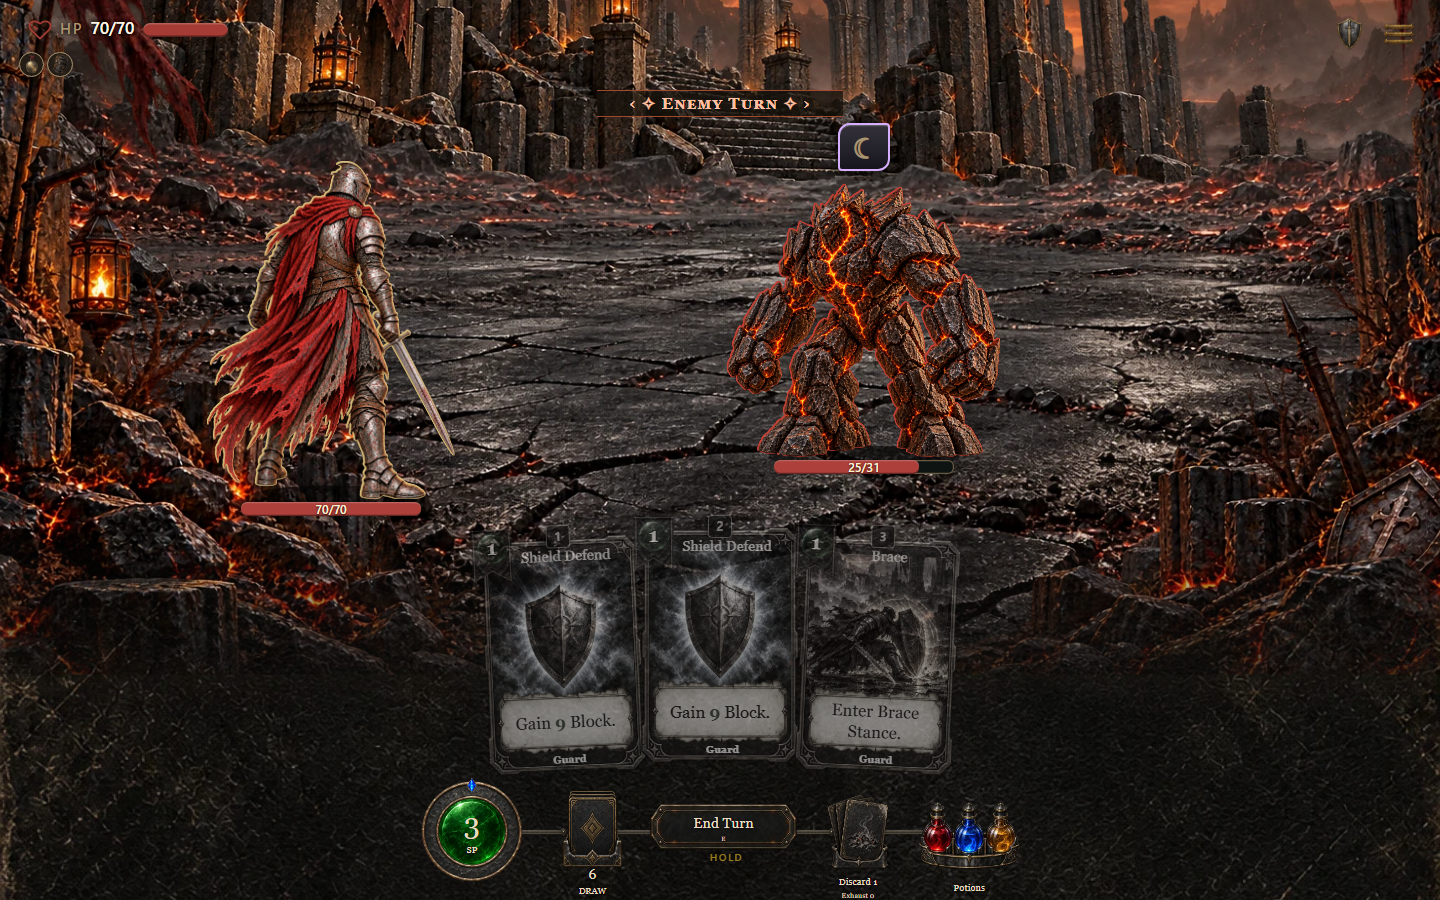
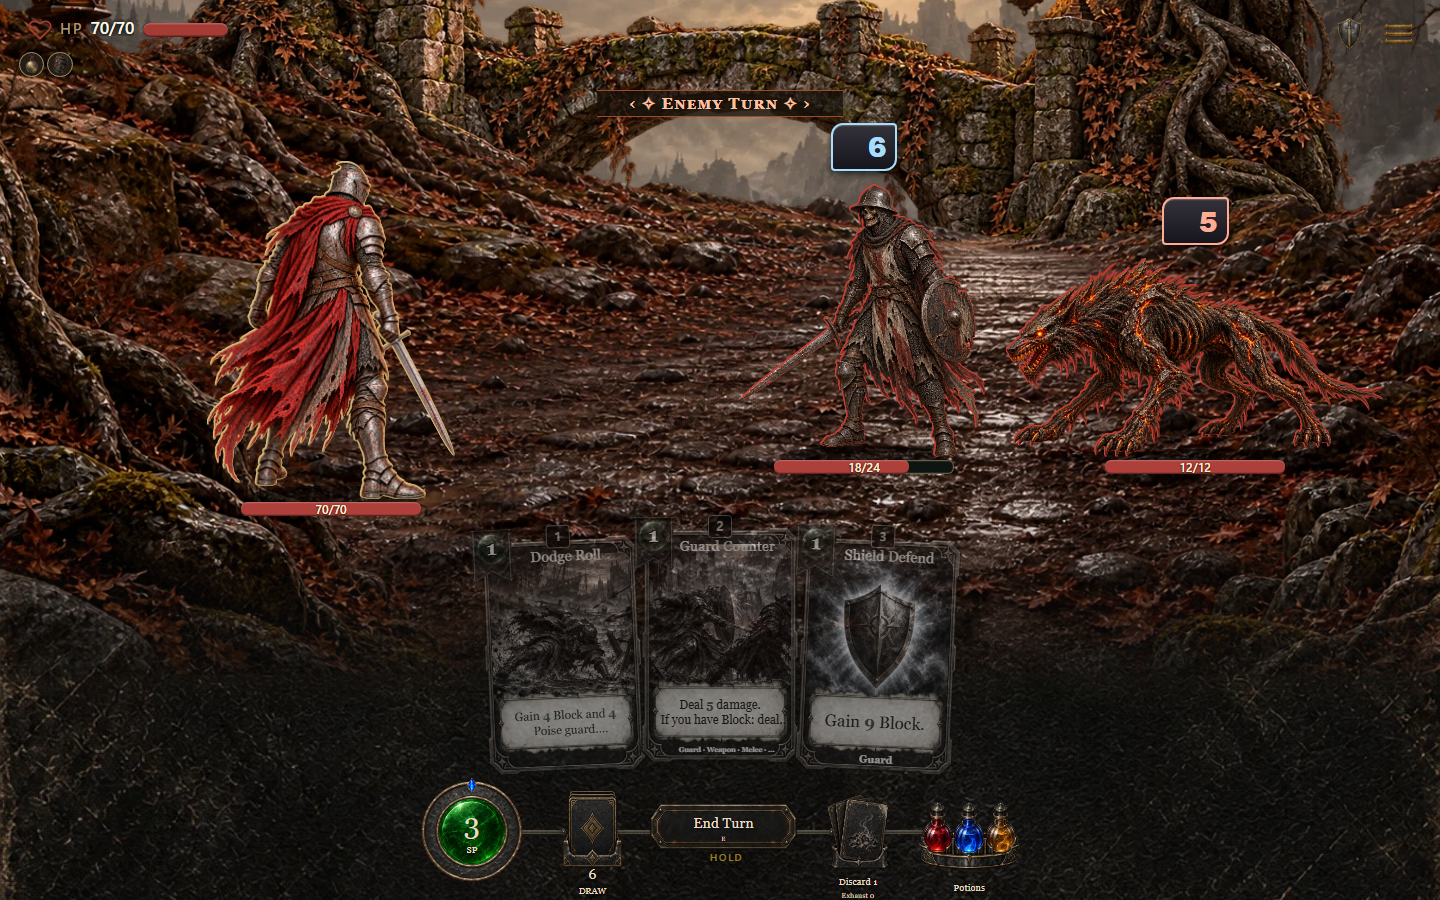
Select phone art at mount and record integration validation

diff --git a/src/ui/alternativeArt.js b/src/ui/alternativeArt.js
@@ -6,6 +6,7 @@ import { armourById } from '../content/equipment.js';
 const alternativeArtMap = {};
 /* ALTERNATIVE_ART_END */
 export const alternativeArtUrl = path => alternativeArtMap[path] || assetUrl(path);
+const phoneArt = () => typeof document !== 'undefined' && document.documentElement.dataset.layout === 'narrow';
 
 // Dedicated canonical appearances win over legacy painted-rig aliases. Shared
 // armor keeps the package's explicit visual-class mapping until dedicated art lands.
@@ -66,15 +67,16 @@ export function alternativeCompanionIcon(id) {
 export function alternativeBackdropHtml(sceneId = 'hollow-weald-1') {
   const scene = alternativeArtCatalog.scenes[sceneId];
   if (!scene) return null;
-  const device = scene.devices.desktop;
+  const mobile = phoneArt();
+  const device = scene.devices[mobile ? 'phone' : 'desktop'];
   return `<div class="backdrop alternative-backdrop" data-region="${scene.region}" data-scene="${sceneId}" aria-hidden="true">
     <svg class="alternative-scene" viewBox="0 0 ${device.width} ${device.height}" focusable="false">
-      ${device.layers.map(layer => `<g class="alternative-scene-layer" data-depth="${layer.depth}"><image data-layer="${layer.id}" href="${alternativeArtUrl(alternativeArtCatalog.sceneLayers[layer.id].path)}" x="${layer.x}" y="${layer.y}" width="${layer.width}" height="${layer.height}"/></g>`).join('')}
+      ${device.layers.map(layer => `<g class="alternative-scene-layer" data-depth="${layer.depth}"><image data-layer="${layer.id}" href="${alternativeArtUrl(alternativeArtCatalog.sceneLayers[layer.id][mobile ? 'mobilePath' : 'path'])}" x="${layer.x}" y="${layer.y}" width="${layer.width}" height="${layer.height}"/></g>`).join('')}
     </svg></div>${alternativeCardFadeHtml()}`;
 }
 
 export function alternativeCardFadeHtml() {
-  return `<div class="alternative-card-fade" aria-hidden="true" style="background-image:url('${alternativeArtUrl(alternativeArtCatalog.layers['card-section-texture'])}')"></div>`;
+  return `<div class="alternative-card-fade" aria-hidden="true" style="background-image:url('${alternativeArtUrl((phoneArt() ? alternativeArtCatalog.mobileLayers : alternativeArtCatalog.layers)['card-section-texture'])}')"></div>`;
 }
 
 // Fit the art canvas to the actual battlefield, keeping its measured ground
@@ -101,7 +103,8 @@ export function fitAlternativeBackdrop(combat, { width, height, fieldTop, ground
     group.dataset.depth = String(layer.depth);
     image.dataset.layer = layer.id;
     for (const prop of ['x', 'y', 'width', 'height']) image.setAttribute(prop, layer[prop]);
-    image.setAttribute('href', alternativeArtUrl(narrow ? art.mobilePath : art.path));
+    const href = alternativeArtUrl(narrow ? art.mobilePath : art.path);
+    if (image.getAttribute('href') !== href) image.setAttribute('href', href);
     group.style.visibility = ['far', 'landmark'].includes(art.kind) && document.documentElement.dataset.wireframeSceneSkyline === 'off' ? 'hidden' : '';
   });
   const fade = combat.querySelector('.alternative-card-fade');

diff --git a/src/content/changelog.generated.js b/src/content/changelog.generated.js
@@ -3,6 +3,16 @@
 
 export const GENERATED_CHANGELOG = Object.freeze([
   {
+    "id": "pr-1684",
+    "date": "2026-10-06",
+    "group": "2026-10-06",
+    "summary": "Alternative battles use the completed art collection",
+    "detail": "All 32 named combat settings have four independent layers with desktop and phone compositions. The collection has 59 canonical idle appearances, including the approved rear companions and speakers; dedicated armor appearances resolve before older aliases. Phone exports keep the artwork smaller while the current HUD, cards and footer stay in place.",
+    "build": "0.7.1.1046",
+    "pullRequest": 1684,
+    "url": "https://github.com/cehinds/AshenSpire/pull/1684"
+  },
+  {
     "id": "pr-1683",
     "date": "2026-10-06",
     "group": "2026-10-06",

diff --git a/docs/qa/combat-art-runtime-2026-10-06/README.md b/docs/qa/combat-art-runtime-2026-10-06/README.md
@@ -31,12 +31,14 @@ Integration base: `c448cb31c` on `alternative/dev`.
 
 ## Validation
 
-- 11 focused Node tests passed: all actor IDs and source identities, every
+- 12 focused Node tests passed: all actor IDs and source identities, every
   armor mapping, both device paths, all scene layer references and dimensions,
   saved dungeon selection, existing environment and formation contracts.
 - 17 asset-pack/mobile tests passed, including stale-hash rejection and the
   common-pack loader used by the alternative art.
-- Local light pack and portable builds succeeded. Built HTML remains ignored.
+- Local light pack and portable builds succeeded: `0.7.1.1041`, identity
+  `3af276545a`. Build identity (9 checks) and shipped-file verification
+  (12 checks) passed. Built HTML remains ignored.
 - Chromium/Edge at 1440x900 and 390x844 loaded all 64 scene/device combinations
   in production combat, checked selected layer IDs and phone sprite paths,
   decoded every selected layer and actor, and found no horizontal page overflow.
@@ -44,13 +46,13 @@ Integration base: `c448cb31c` on `alternative/dev`.
   and representative full-size screenshots were visually inspected.
 - Fresh Quick start, mastery selection, map entry, tutorial Skip, real card
   selection/targeting, hold End Turn, hand retention and turn 2 passed at both
-  sizes, from the source preview and from the offline portable file.
+  sizes, from the source preview, served pack, and offline portable file.
 - The first input harness run exposed a tutorial overlay and an early End Turn
   attempt during card playback. The harness now uses the visible Skip control
   and waits for enabled controls/retention. Both complete playthroughs were
   rerun successfully. These were harness changes, not gameplay changes.
 - No page JavaScript errors or required-art HTTP errors. The source preview
-  still probes optional recorded SFX and `/api/lan/info` and receives 404s;
+  and served pack still probe optional recorded SFX and `/api/lan/info` and receive 404s;
   it uses its existing synthesized audio fallback. These are listed separately
   in `validation.json`. The portable playthrough has no HTTP errors.
 
@@ -70,4 +72,5 @@ separate from these local checks. Nothing was merged, promoted or published.
 Reproduce with `python tools/alternative-art-build.py`, the focused tests named
 in DEVELOPER.md, `node tools/launch.mjs --build-only`, and
 `node tools/alternative-art-qa.mjs`. Point `COMBAT_ART_URL` at the portable file
-and add `--play-only` to test the built game. Keep local outputs/temp on D:.
+and add `--play-only` to test the portable game; use `--play-only --pack`
+for the served pack. Keep local outputs/temp on D:.

diff --git a/CHANGELOG.md b/CHANGELOG.md
@@ -34,6 +34,8 @@ A receipt here names the pull request that landed a change; inventing one to fit
 
 ## 2026-10-06
 
+- **Alternative battles use the completed art collection** ([#1684](https://github.com/cehinds/AshenSpire/pull/1684), `0.7.1.1046`). All 32 named combat settings have four independent layers with desktop and phone compositions. The collection has 59 canonical idle appearances, including the approved rear companions and speakers; dedicated armor appearances resolve before older aliases. Phone exports keep the artwork smaller while the current HUD, cards and footer stay in place.
+
 - **Alternative characters keep pace** ([#1683](https://github.com/cehinds/AshenSpire/pull/1683), `0.7.1.1045`). The alternative preview gains the ready-to-play character defaults, compact class cards, stat and relic detail dialogs, and continuous Smith upgrades. Its own battlefield and artwork stay intact, with both update histories preserved.
 
 - **Inspect your starting stats and relic** ([#1681](https://github.com/cehinds/AshenSpire/pull/1681), `0.7.1.1043`). Select a resource or relic in the class preview to read its details. Stat dialogs define the resource and show its current calculation at the bottom. Escape closes the dialog in one press and returns focus to the selected control.
